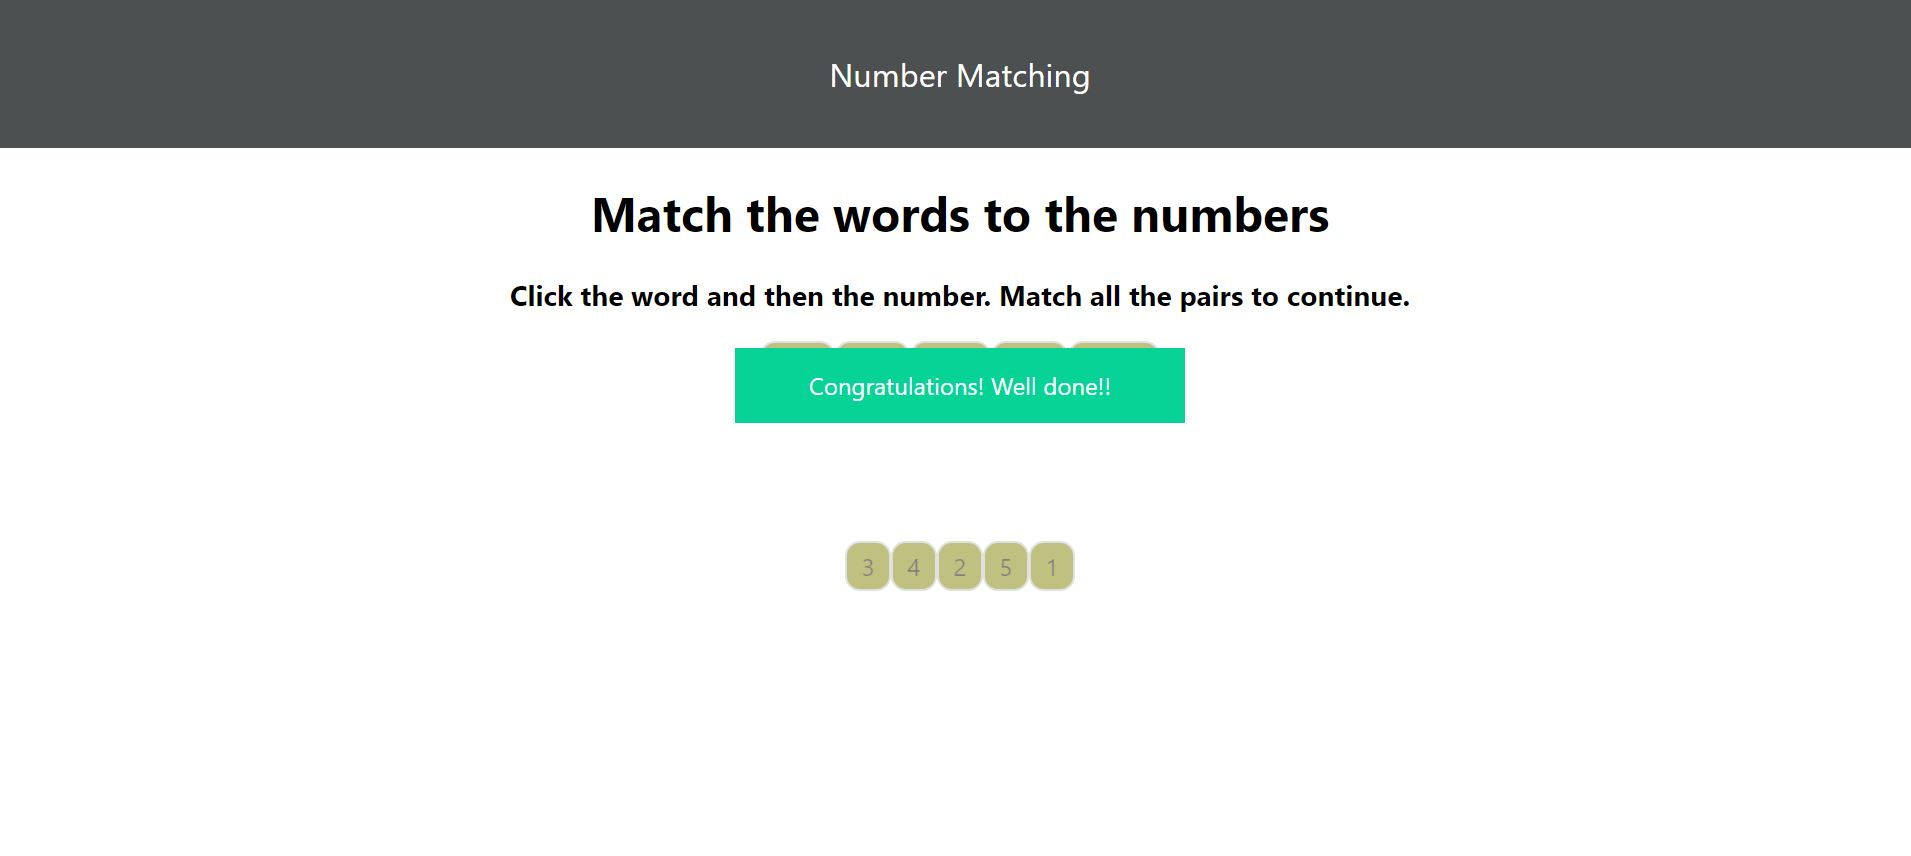
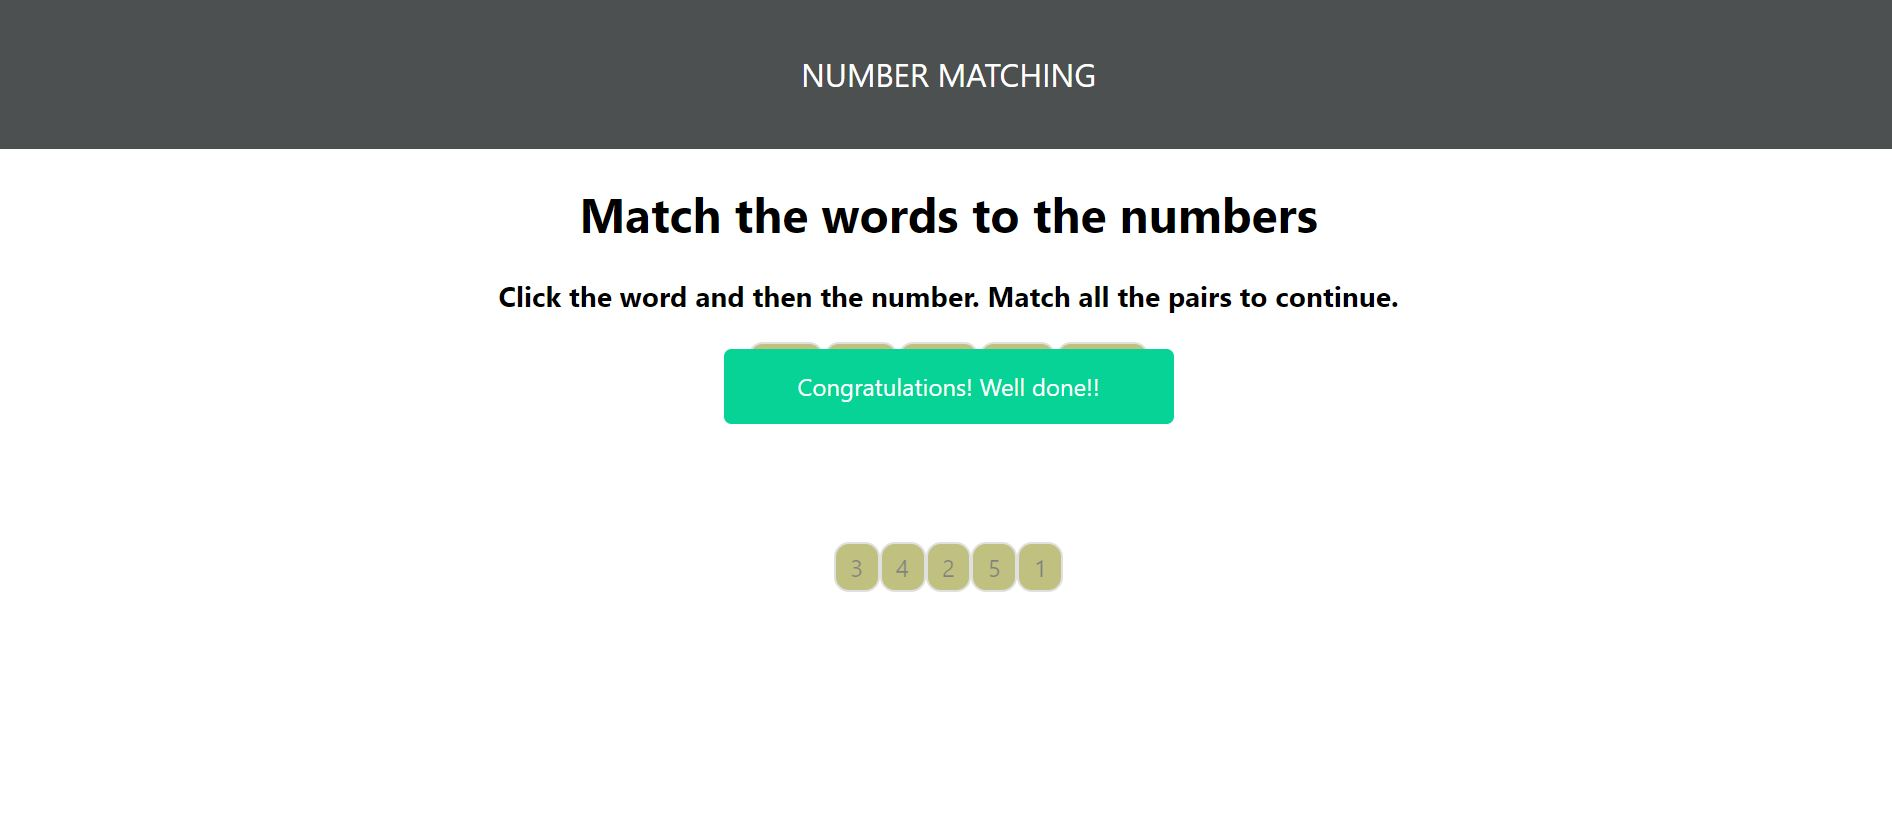
Update readMe and finalize the app

diff --git a/src/components/NumberMatching/NumberMatching.js b/src/components/NumberMatching/NumberMatching.js
@@ -19,21 +19,21 @@ class NumberMatching extends Component {
       numFive: ""
     };
   }
-
-  onClickWord = (word, event) => {
+  // e stands for event
+  onClickWord = (word, e) => {
     if (this.state[word] !== "matched" && this.state.count % 2 === 0) {
       const count = this.state.count + 1;
       this.setState({
         [word]: "matched",
-        fieldValue: event.target.value,
+        fieldValue: e.target.value,
         count
       });
     }
   };
 
-  onClickNumber = (number, event) => {
+  onClickNumber = (number, e) => {
     if (
-      this.state.fieldValue === event.target.value &&
+      this.state.fieldValue === e.target.value &&
       this.state.count % 2 !== 0
     ) {
       const count = this.state.count + 1;
@@ -54,35 +54,35 @@ class NumberMatching extends Component {
         <ul className="wordslist1">
           <li
             value="2"
-            onClick={event => this.onClickWord("wordTwo", event)}
+            onClick={e => this.onClickWord("wordTwo", e)}
             className={this.state.wordTwo}
           >
             Two
           </li>
           <li
             value="5"
-            onClick={event => this.onClickWord("wordFive", event)}
+            onClick={e => this.onClickWord("wordFive", e)}
             className={this.state.wordFive}
           >
             Five
           </li>
           <li
             value="4"
-            onClick={event => this.onClickWord("wordFour", event)}
+            onClick={e => this.onClickWord("wordFour", e)}
             className={this.state.wordFour}
           >
             Four
           </li>
           <li
             value="1"
-            onClick={event => this.onClickWord("wordOne", event)}
+            onClick={e => this.onClickWord("wordOne", e)}
             className={this.state.wordOne}
           >
             One
           </li>
           <li
             value="3"
-            onClick={event => this.onClickWord("wordThree", event)}
+            onClick={e => this.onClickWord("wordThree", e)}
             className={this.state.wordThree}
           >
             Three
@@ -92,40 +92,41 @@ class NumberMatching extends Component {
         <ul className="wordslist2">
           <li
             value="3"
-            onClick={event => this.onClickNumber("numThree", event)}
+            onClick={e => this.onClickNumber("numThree", e)}
             className={this.state.numThree}
           >
             3
           </li>
           <li
             value="4"
-            onClick={event => this.onClickNumber("numFour", event)}
+            onClick={e => this.onClickNumber("numFour", e)}
             className={this.state.numFour}
           >
             4
           </li>
           <li
             value="2"
-            onClick={event => this.onClickNumber("numTwo", event)}
+            onClick={e => this.onClickNumber("numTwo", e)}
             className={this.state.numTwo}
           >
             2
           </li>
           <li
             value="5"
-            onClick={event => this.onClickNumber("numFive", event)}
+            onClick={e => this.onClickNumber("numFive", e)}
             className={this.state.numFive}
           >
             5
           </li>
           <li
             value="1"
-            onClick={event => this.onClickNumber("numOne", event)}
+            onClick={e => this.onClickNumber("numOne", e)}
             className={this.state.numOne}
           >
             1
           </li>
         </ul>
+
         {this.state.count === 10 ? (
           <div className="response">Congratulations! Well done!!</div>
         ) : null}

diff --git a/src/App.js b/src/App.js
@@ -6,7 +6,7 @@ class App extends Component {
   render() {
     return (
       <div className="App">
-        <header className="App-header">Number Matching </header>
+        <header className="App-header"> Number matching </header>
         <NumberMatching />
       </div>
     );

diff --git a/src/components/NumberMatching/NumberMatching.css b/src/components/NumberMatching/NumberMatching.css
@@ -36,6 +36,7 @@ li.matched {
   line-height: 50px;
   background: rgb(8, 211, 150);
   color: #fff;
+  border-radius: 5px;
 }
 .wordslist2 {
   margin-top: 100px;

diff --git a/src/App.css b/src/App.css
@@ -11,4 +11,5 @@
   justify-content: center;
   font-size: calc(10px + 2vmin);
   color: white;
+  text-transform: uppercase;
 }
